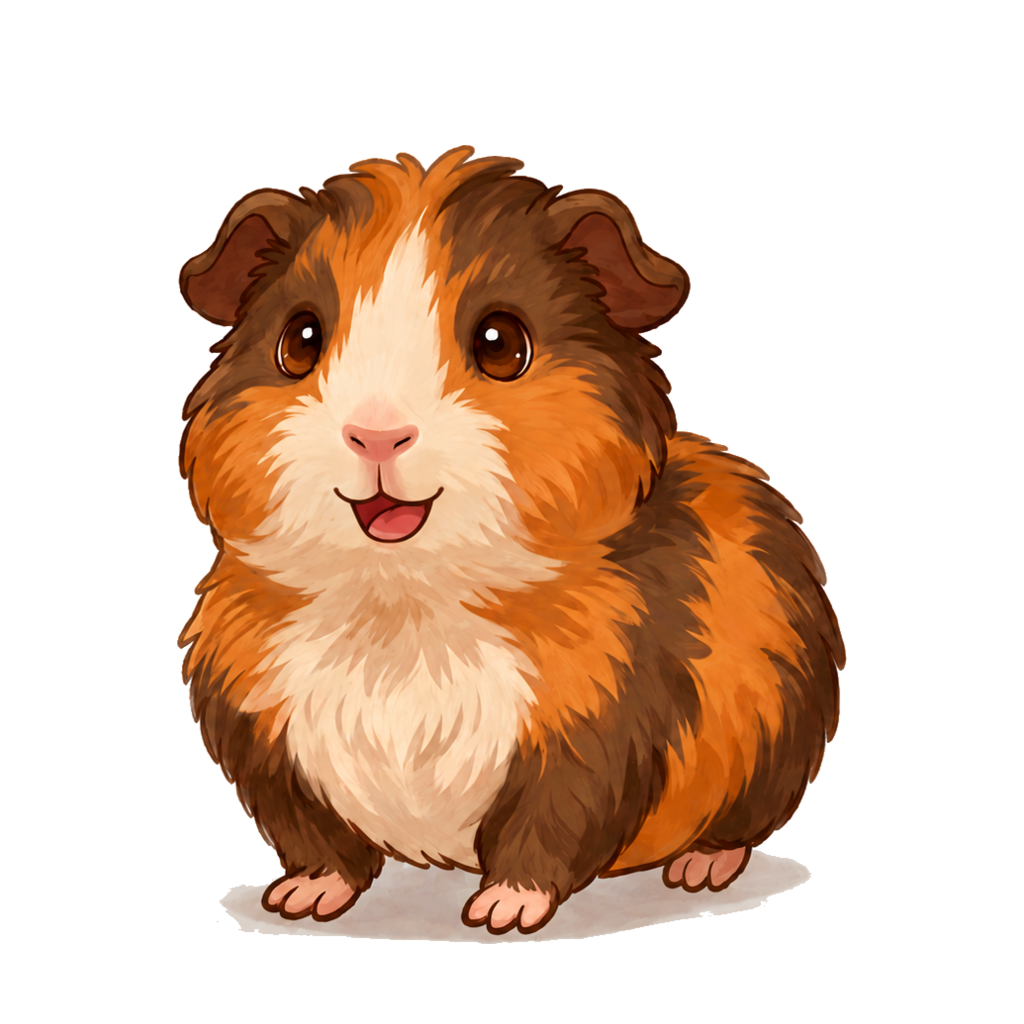
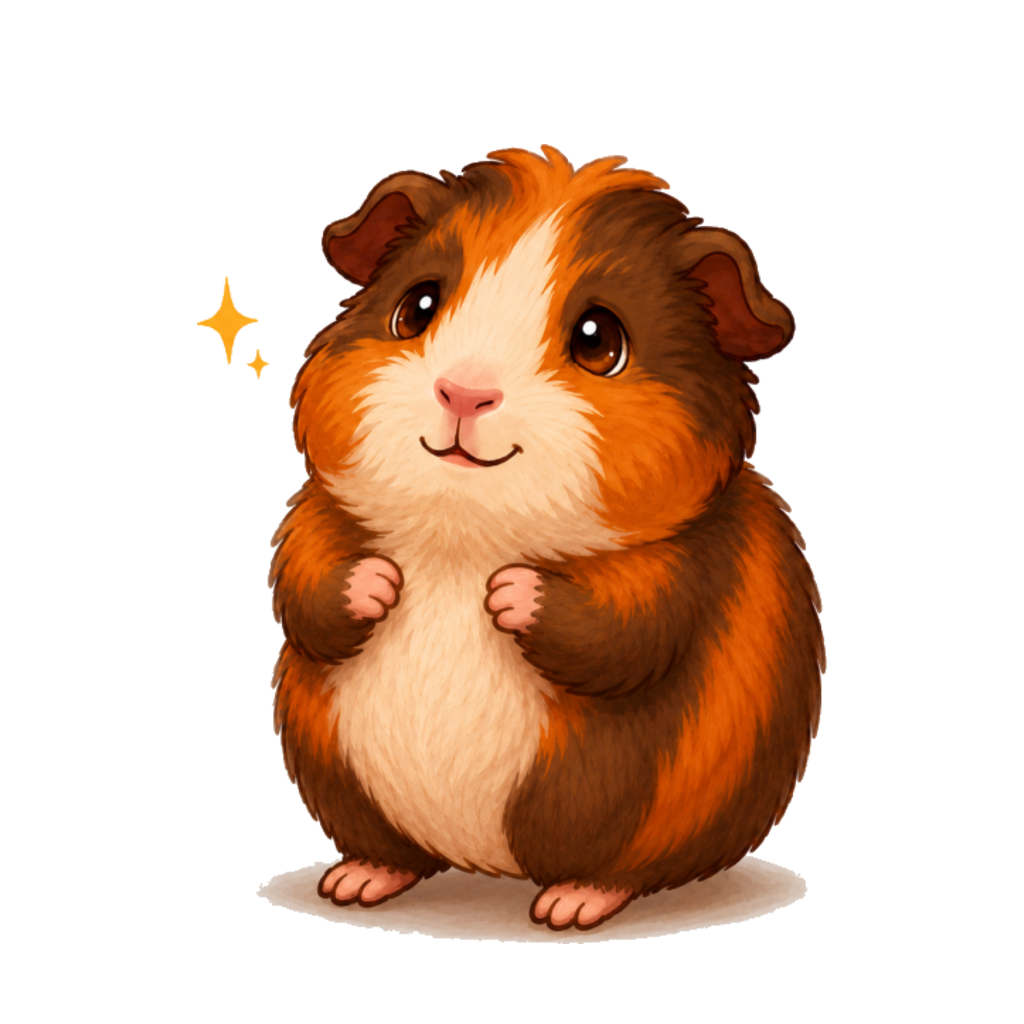
chore(cr-0097): reprocess去背 for mochi + user-dropped white-bg states
mochi rest_01/02 + 7 states + listening + talk×6 從乾淨原圖以 fuzz-12% 四角去背重做
（talk 用聯集 bbox 維持對位）；guinea_pig_rest_03 與 fox/guinea_pig 5 張白底 WebP states
去背為 1024² RGBA feet@944。釐清 rest「多出難過/睡覺」是 rest_03 檔案內容非程式。
mochi_normal 與 ferret_sad/caring 缺乾淨原圖，待補。

diff --git a/docs/CHANGE_REVIEW.md b/docs/CHANGE_REVIEW.md
@@ -4098,3 +4098,59 @@ CR-0090 已改後端語音 persona，但 `realtime_voice_service.dart` 內供 `s
 
 ### 裁決
 純素材重做、幾何對齊既有 rest 幀、真 PNG、不碰程式與受保護模組、素材測試全綠；併入主線。**下一個可用 CR 編號：CR-0096。**
+
+---
+
+## CR-0096 — Manual Voice Stop Submit and Noise Suppression
+
+### 模式
+**觸及 🔒** `lib/services/realtime_voice_service.dart`，已先送 **architecture-agent 審查並核准**（agentId a81bffb4145fbd32f，medium risk）。修正「聆聽中按停止，剛說的話沒送出、寵物不回覆」：把按鈕從「取消並斷線」改成「停止收音並送出本輪語音」，並加上噪音抑制。詳見 `docs/MANUAL_VOICE_STOP_SUBMIT_CR0096.md`。
+
+> 任務檔內文沿用舊草稿編號 CR-0095（已用於 mochi 素材），本任務正式編號 CR-0096。
+
+### 根因
+`home_screen.dart` 在聆聽中呼叫 `stopRealtimeConversation()` → `realtimeVoiceService.stop()` + `clearRealtimeTranscriptState()` + 回 idle，等於取消並斷線、清掉 transcript，故寵物不回覆。
+
+### 變更
+- 🔒 service：`getUserMedia` 加 `echoCancellation/noiseSuppression/autoGainControl` + try/catch 降級；新增 `commitUserAudioAndRespond()`（pauseMicInput → `input_audio_buffer.commit` → 僅 `!_hasActiveAssistantResponse` 才 `response.create`）；`error` 事件白名單過濾良性碼 `input_audio_buffer_commit_empty` / `conversation_already_has_active_response`（只 log、不打斷對話）。
+- controller：新增 `stopListeningAndSubmit()`（有語音才 commit、進 thinking、掛 responseTimeout、不清 transcript、不斷線）+ 新 getter `isCapturingUserSpeech`（ready/listening/transcribing）。
+- home_screen：聆聽/轉錄中按鈕改呼叫 `stopListeningAndSubmit()`（原 `stopRealtimeConversation` 語意保留）。
+- 文案：listening/ready/transcribing 改「正在聽你說，說完再按一下」。
+
+### architecture-agent 裁決摘要
+- 方案 **(a) 強化版** 核准；(b) 關 server_vad、(c) 只 commit 不送 response.create 駁回。
+- 放行條件（全數已落實）：error 良性碼過濾 + controller 端有語音才 commit + thinking 掛 responseTimeout + getUserMedia try/catch 降級 + 補測試。
+- 不動 SDP/ICE/DataChannel；CR-0089/CR-0083 字幕不受影響；無 API 契約 / DB / Care Alert 變更。
+- owner：realtime-voice-agent 主導 🔒；frontend-ux-agent 改 home_screen 呼叫點。
+
+### 測試
+`flutter analyze` No issues；`flutter test` **699 passed / 0 failed**（新增 6 筆：service commit/error 過濾、controller stop-and-submit 有/無語音、presentation 文案）。
+
+### 裁決
+觸及 🔒 但已走核准流程並滿足全部放行條件、不破壞既有 Realtime 主流程與字幕、測試齊備且全綠；併入主線。**尚未實機驗收**（需 iPhone 跑情境 1–5）。**下一個可用 CR 編號：CR-0097。**
+
+---
+
+## CR-0097 — Pet Asset 去背 Audit + Mochi Reprocess
+
+### 模式
+**純素材重做 + 檢查**（frontend-ux-agent 範圍，寵物動畫軌道）：檢查 5 隻寵物 rest/states/talk 去背狀況，修復去背吃掉本體白毛與使用者新放的白底 WebP。不改 enum/resolver/動畫程式，不擴大成重做素材系統，不碰 persona/Realtime/字幕/推播/Care Alert/後台/App icon。詳見 `docs/PET_ASSET_CLEANUP_CR0097.md`。
+
+### 關鍵釐清
+「rest 多出難過/睡覺狀態」非程式 bug：`restFrames` 永遠只解析 `_rest_01/02/03`，問題在 `*_rest_03.png` 檔案內容本身；使用者已替換新 rest pose 圖。
+
+### 變更（只動素材檔）
+- guinea_pig_rest_03：白底 WebP → 1024² RGBA 去背 PNG（fuzz 12% 四角）。
+- mochi 16 張從使用者乾淨原圖重做（rest_01/02、7 states、listening、talk×6；talk 用聯集 bbox 維持對位）。
+- fox/guinea_pig 5 張白底 WebP states 去背（fox_hungry/thirsty、guinea_pig_excited/hungry/sleepy）。
+- fox_rest_03：使用者新圖已合格，原樣納入。
+
+### 已知限制（缺原圖、待補）
+- mochi_normal：無乾淨原圖，維持現狀（仍合格 PNG、測試可過）。
+- ferret_sad / ferret_caring：無 ferret 原圖、損傷輕微，依使用者決定先不動僅記錄。
+
+### 測試
+`flutter test` **699 passed / 0 failed**（mochi/ferret/pet skin tests 全綠）；素材內容以洋紅底目視驗證無破洞。
+
+### 裁決
+純素材去背修復、幾何對齊既有慣例（feet 944 / 1024² RGBA）、ping-pong 一致、不碰程式與受保護模組、測試全綠；併入主線。**mochi_normal / ferret 缺原圖部分待使用者補圖。下一個可用 CR 編號：CR-0098。**

diff --git a/docs/PET_ASSET_CLEANUP_CR0097.md b/docs/PET_ASSET_CLEANUP_CR0097.md
@@ -1,0 +1,59 @@
+# CR-0097 — Pet Asset 去背 Audit + Mochi Reprocess
+
+> 寵物動畫軌道的素材內容檢查與修復。**只動素材檔與文件**，不改 enum / resolver / 動畫程式（沿用 CR-0093 ping-pong + CR-0088/0094 狀態選擇），不擴大成重做素材系統。不碰 AI persona / Realtime / 字幕 / 推播 / Care Alert / 後台 / App icon。
+
+## 背景
+
+使用者回報目前寵物素材狀況並要求一併檢查：
+1. guinea_pig：原 rest 會多出難過狀態圖，已放入新的 rest_03。
+2. mochi：去背把貓本身顏色也挖掉了，請勿再用錯誤去背圖。
+3. ferret：也有去背吃掉本體顏色的問題。
+4. fox：原 rest 多出睡覺狀態，已放入新的 rest_03。
+
+## 關鍵釐清：rest「多出難過/睡覺狀態」不是程式 bug
+
+`AssetPaths.restFrames(skin)` 永遠解析為 `<prefix>_rest_01/02/03.png`（frame count = 3），**從不**引用 states 的 sad/sleepy 圖。CR-0093 的 ping-pong 也只在這 3 張間 1→2→3→2→1。所以「rest 出現難過/睡覺」是**該 `*_rest_03.png` 檔案內容**本身畫的是難過/睡覺，使用者已替換成新的 rest pose 圖 → 問題在素材內容，不在程式。
+
+## 審計結果
+
+用「疊在洋紅底 flatten」目視（破洞會透出洋紅）：
+
+| 寵物 | 狀況 |
+|---|---|
+| dog | rest 1024² RGBA 正常，1→2→3→2→1 OK。 |
+| fox | rest_01/02/03 皆乾淨 rest pose，**無睡覺圖**；rest_03 為使用者新圖（已是合格 PNG）。 |
+| guinea_pig | rest_01/02 乾淨；rest_03 為使用者新圖但**原為白底 WebP**（未去背）→ 已處理。rest_03 內容是 content pose，**無難過臉**。 |
+| mochi | **rest_01/02 + 全部 8 states + listening + talk 全部被去背吃掉白胸腹毛**（半透明破洞）；只有 CR-0095 重做的 rest_03 乾淨。 |
+| ferret | rest 正常；`ferret_sad` / `ferret_caring` 下腹白毛輕微半透明，其餘正常。 |
+
+另外發現使用者新放但**未去背**的白底 WebP（會在 App 顯示白框）：`fox_hungry`、`fox_thirsty`、`guinea_pig_excited`、`guinea_pig_hungry`、`guinea_pig_sleepy`、`guinea_pig_rest_03`。
+
+## 處理（統一用 CR-0095 驗證過的流程）
+
+去背：edge flood-fill **四角**、**fuzz 12%**（淺色毛；28% 會吃掉白胸腹）；置版：`-trim → resize 高 800（states 取 fit 740x800）→ 腳底 y944、水平置中、1024² RGBA`。每張都用洋紅底目視驗證無破洞才採用。
+
+- **guinea_pig_rest_03**：白底 WebP → 1024² RGBA PNG（bbox 690×726+167+218）。
+- **mochi 共 16 張**從使用者 `~/Downloads` 乾淨原圖（738×1314 白底）重做：rest_01/02、states happy/sad/excited/sleepy/hungry/thirsty/caring、listening、talk_01–06。
+  - rest_01/02 對齊 rest_03（高 800、feet 944、置中），ping-pong 一致。
+  - talk_01–06 用**聯集 bbox**（union 668×1020+58+185）裁切，6 幀維持對位、不抖動。
+- **fox/guinea_pig 5 張白底 WebP states** 去背為 1024² RGBA：fox_hungry/thirsty、guinea_pig_excited/hungry/sleepy（feet 944）。
+- **fox_rest_03**：使用者新圖已是合格 1024² RGBA PNG，不需重做（原樣納入）。
+
+## 已知限制（缺乾淨原圖，本次未修，待補）
+
+- **mochi_normal**：`~/Downloads` 無乾淨原圖 → 維持現狀（仍是去背吃色的舊圖，但仍是合格 1024² RGBA PNG，測試可過）。待使用者提供原圖再用同流程重做。
+- **ferret_sad / ferret_caring**：`~/Downloads` 無任何 ferret 原圖、無法從原圖重做；損傷輕微，依使用者決定**先不動、僅記錄**。其餘 ferret 圖正常。
+- 觀察：使用者新放的 fox/guinea_pig chibi 風 states 與既有較細緻畫風略不同，屬使用者素材選擇，本 CR 不介入美術方向。
+
+## 驗收對照
+
+- dog / fox / guinea_pig / ferret / mochi 的 rest 都跑 1→2→3→2→1 ✓（frame count 3 + ping-pong；所有 rest_03 皆合格 PNG）。
+- guinea_pig rest 不出現難過狀態 ✓（rest_03 為 content pose）。
+- fox rest 不出現睡覺狀態 ✓（rest_03 為站姿）。
+- mochi 不出現去背吃掉本體的圖 ✓（除 mochi_normal 無原圖，已記錄）。
+- ferret：sad/caring 輕微、無原圖，依決定僅記錄。
+- 未改 AI persona / Realtime / 字幕 / 推播 / Care Alert / 後台 / App icon ✓。
+
+## 測試
+
+`flutter test` **699 passed / 0 failed**（含 `mochi_skin_test` / `ferret_skin_test` / `pet_skin_test`：存在、1024² RGBA、透明背景、路徑解析）。素材內容正確性以洋紅底目視驗證（測試只驗格式/透明度）。
